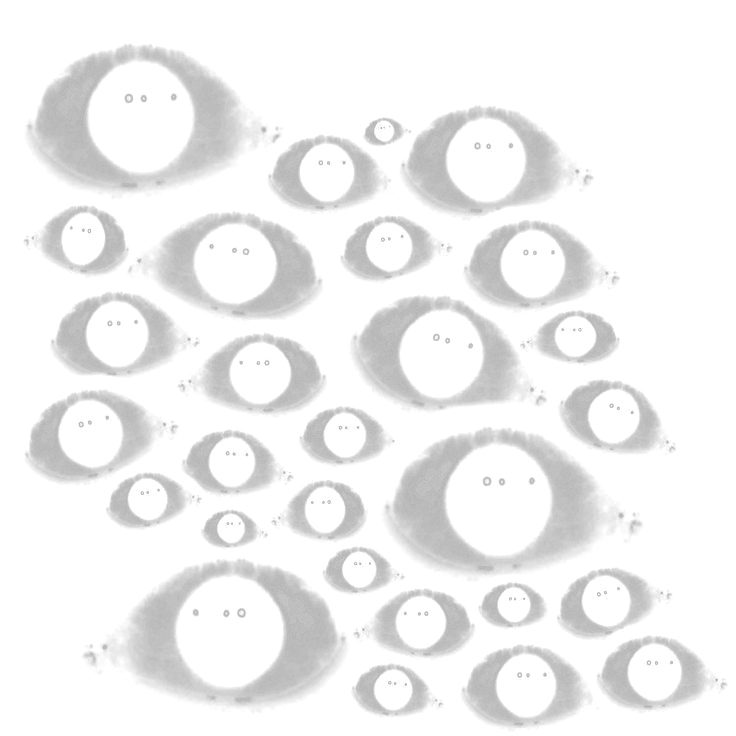
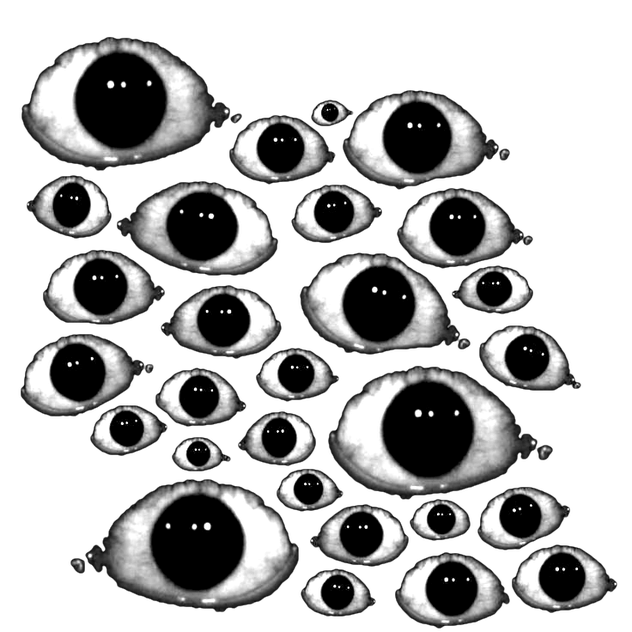
Fix eyes2 texture; add gate guards for dreamscape and notcrazy
- eyes2.png rebuilt as a light-on-dark transparent cutout (was dark RGB +
  low alpha, invisible under the brightness()/opacity() filters); blink.html
  eyes nudged up from near-zero
- notyet.html: "You are not supposed to be here yet." dead-end
- dreamscape.html / notcrazy.html: head guard redirects to notyet.html
  unless reached through the chain (session token from rem / feed / the thin
  place) or earned before (persistent pass flag) or ?dev
- index box: typing "dreamscape.html" / "notcrazy.html" (and .htm typos)
  routes to notyet.html instead of being filed silently

diff --git a/index.html b/index.html
@@ -489,10 +489,21 @@
       idxGo = document.getElementById('idxGo'),
       idxR  = document.getElementById('idxR');
   function idxSubmit(){
-    var q = normalize(idxIn.value);
+    var rawInput = idxIn.value;
+    // someone who has worked out that pages are "<word>.html" and is typing one in
+    var typedPage = /\.html?\s*$/i.test(rawInput);
+    var q = normalize(rawInput.replace(/\.html?\s*$/i, ''));
     if(!q) return;
+    if(typedPage){
+      var onPath = dreaming && (q === 'dreamscape' || q === 'the room');
+      // only the sealed pages care — they cannot be jumped ahead of
+      if(!onPath && /^(dreamscape|the room|notcrazy|not crazy|you are not crazy)$/.test(q)){
+        location.href = 'notyet.html';
+        return;
+      }
+    }
     if(AP_INDEX[q]){ location.href = AP_INDEX[q]; return; }
-    submitMessage('[index] ' + q);           // filed. the visitor is told nothing.
+    submitMessage('[index] ' + q);            // filed. the visitor is told nothing.
     idxR.textContent = (q === 'nyarlathotep') ? 'No.' : '';
     idxIn.value = '';
   }

diff --git a/blink.html b/blink.html
@@ -39,15 +39,15 @@
     for(var i=0;i<n;i++){
       var e = document.createElement('img');
       e.src = 'img/eyes2.png';
-      var base = 0.06 + Math.random()*0.09;
+      var base = 0.12 + Math.random()*0.16;
       e.style.left = (Math.random()*100)+'%';
       e.style.top = (Math.random()*100)+'%';
       e.style.width = (60 + Math.random()*200)+'px';
       e.style.transform = 'translate(-50%,-50%) rotate('+(Math.random()*360)+'deg)';
-      e.style.filter = 'brightness('+(0.04 + Math.random()*0.1).toFixed(3)+')';
+      e.style.filter = 'brightness('+(0.05 + Math.random()*0.14).toFixed(3)+')';
       e.style.opacity = base.toFixed(3);
-      e.style.setProperty('--lo', Math.max(0, base-0.03).toFixed(3));
-      e.style.setProperty('--hi', (base+0.03).toFixed(3));
+      e.style.setProperty('--lo', Math.max(0, base-0.05).toFixed(3));
+      e.style.setProperty('--hi', (base+0.04).toFixed(3));
       e.style.animation = 'eb '+(3+Math.random()*4).toFixed(2)+'s ease-in-out '+(Math.random()*3).toFixed(2)+'s infinite alternate';
       host.appendChild(e);
     }

diff --git a/dreamscape.html b/dreamscape.html
@@ -4,6 +4,19 @@
 <meta charset="utf-8">
 <meta name="viewport" content="width=device-width, initial-scale=1">
 <meta name="robots" content="noindex,nofollow">
+<script>
+/* you reach this by moving through rem, not by typing its name */
+(function(){try{
+  if(/[?&]dev\b/.test(location.search)) return;
+  if(localStorage.getItem('ap_pass_ds') === '1') return;
+  if(sessionStorage.getItem('ap_gate_ds') === '1'){
+    sessionStorage.removeItem('ap_gate_ds');
+    localStorage.setItem('ap_pass_ds','1');
+    return;
+  }
+  location.replace('notyet.html');
+}catch(e){}})();
+</script>
 <title>DreamScape</title>
 <style>
   html,body{margin:0;height:100%;background:#040303;overflow:hidden;
@@ -192,6 +205,7 @@
   var solved = false;
   function openThinPlace(){
     solved = true;
+    try{ sessionStorage.setItem('ap_gate_nc','1'); }catch(e){}
     room.classList.add('narrowed');
     toward.hidden = false;
     flash();

diff --git a/notyet.html b/notyet.html
@@ -1,0 +1,23 @@
+<!DOCTYPE html>
+<html lang="en">
+<head>
+<meta charset="utf-8">
+<meta name="viewport" content="width=device-width, initial-scale=1">
+<meta name="robots" content="noindex,nofollow">
+<title> </title>
+<style>
+  html,body{margin:0;height:100%;overflow:hidden;background:#050505;color:#4a4a4a;
+    font-family:"Courier New",Courier,monospace;cursor:default}
+  .mid{position:fixed;inset:0;display:flex;align-items:center;justify-content:center;
+    text-align:center;padding:24px}
+  p{margin:0;font-size:15px;letter-spacing:1px;line-height:2}
+  .b{position:fixed;left:5px;bottom:3px;font-size:10px;letter-spacing:1px;color:#0b0b0b;
+    text-decoration:none}
+  .b::selection{background:#1e1e1e;color:#050505}
+</style>
+</head>
+<body>
+  <div class="mid"><p>You are not supposed to be here yet.</p></div>
+  <a class="b" href="index.html">back the way you came</a>
+</body>
+</html>

diff --git a/notcrazy.html b/notcrazy.html
@@ -4,6 +4,19 @@
 <meta charset="utf-8">
 <meta name="viewport" content="width=device-width, initial-scale=1">
 <meta name="robots" content="noindex,nofollow">
+<script>
+/* reached through the feed, or through the thin place in the dream — not by typing */
+(function(){try{
+  if(/[?&]dev\b/.test(location.search)) return;
+  if(localStorage.getItem('ap_pass_nc') === '1') return;
+  if(sessionStorage.getItem('ap_gate_nc') === '1'){
+    sessionStorage.removeItem('ap_gate_nc');
+    localStorage.setItem('ap_pass_nc','1');
+    return;
+  }
+  location.replace('notyet.html');
+}catch(e){}})();
+</script>
 <title> </title>
 <style>
   html,body{margin:0;height:100%;overflow:hidden;background:#000;color:#dfe3da}

diff --git a/feed.html b/feed.html
@@ -197,6 +197,7 @@
   document.getElementById('wrap').addEventListener('click', function(e){
     var a = e.target.closest('a'); if (!a) return;
     e.preventDefault();
+    try{ sessionStorage.setItem('ap_gate_nc','1'); }catch(e2){}
     var c = document.getElementById('veil'); c.style.display = 'block';
     var ctx = c.getContext('2d'); c.width = window.innerWidth; c.height = window.innerHeight;
     var end = performance.now() + 900;

diff --git a/rem.html b/rem.html
@@ -64,6 +64,7 @@
 
   function leave(){
     going = true;
+    try{ sessionStorage.setItem('ap_gate_ds','1'); }catch(e){}
     flare.style.opacity = '1';
     setTimeout(function(){ location.href = 'dreamscape.html'; }, 1150);
   }
